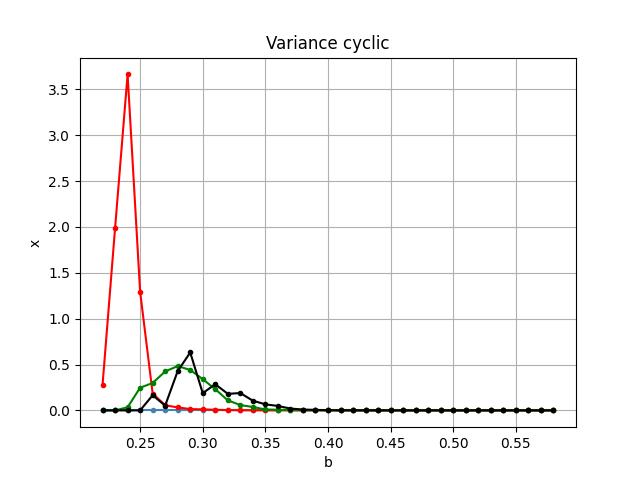
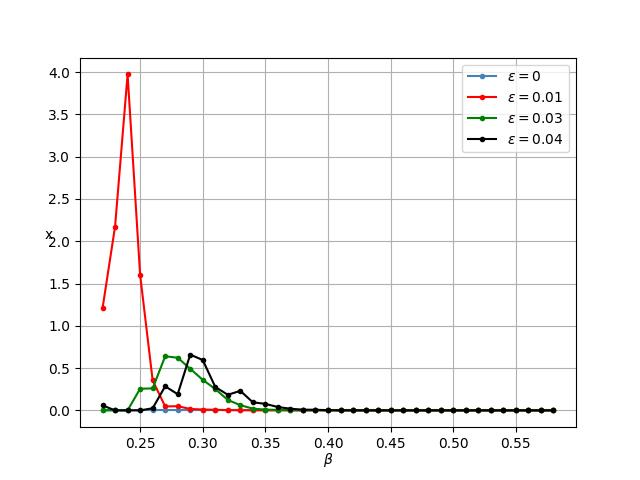
Upd

diff --git a/grpah/runner.py b/grpah/runner.py
@@ -891,11 +891,16 @@ def run_cyclic_variance():
     )
 
     (Plotter()
-        ._setup('b', 'x', 'linear', 'major', 'Variance cyclic')
-        .plot_line(source0, '.', colors.steel_blue, 'original')
+        .setup_x_label('$\\beta$')
+        .setup_y_label('x')
+        .setup_y_scale(scale.linear)
+        .setup_grid(grid.major)
+        # .setup_title('Variance cyclic')
+        .plot_line(source0, '.', colors.steel_blue, '$\\varepsilon = 0$')
         .plot_line(source1, '.', colors.red, '$\\varepsilon = 0.01$')
         .plot_line(source2, '.', colors.green, '$\\varepsilon = 0.03$')
         .plot_line(source3, '.', colors.black, '$\\varepsilon = 0.04$')
+        .legend()
         .show_last())
 
 

diff --git a/grpah/main.py b/grpah/main.py
@@ -45,7 +45,7 @@ if __name__ == "__main__":
     # run_mean()
 
     # Усредненное матожидание
-    run_cyclic_mean()
+    # run_cyclic_mean()
 
     # Дисперсия
     # run_variance()
